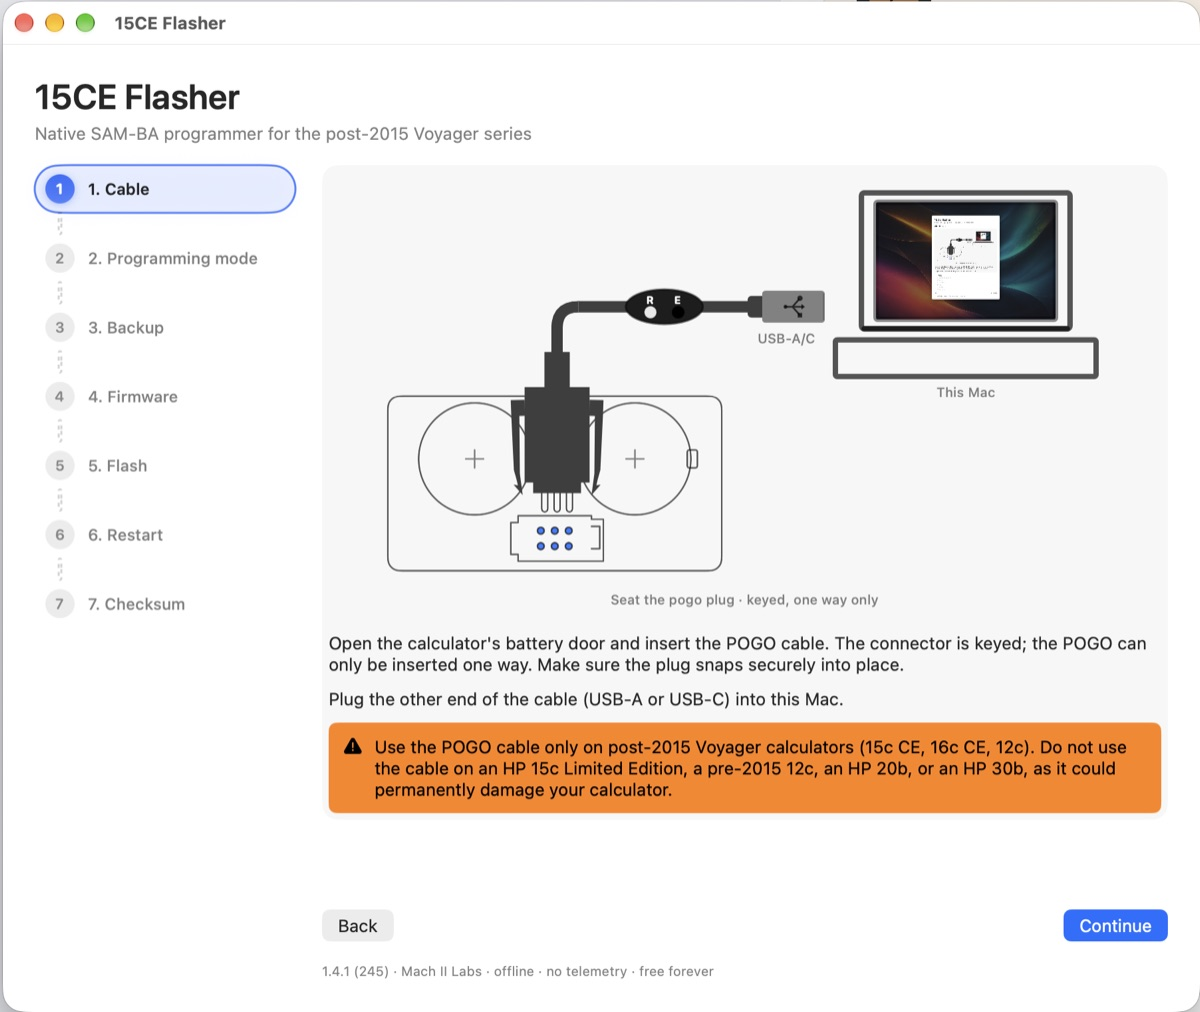
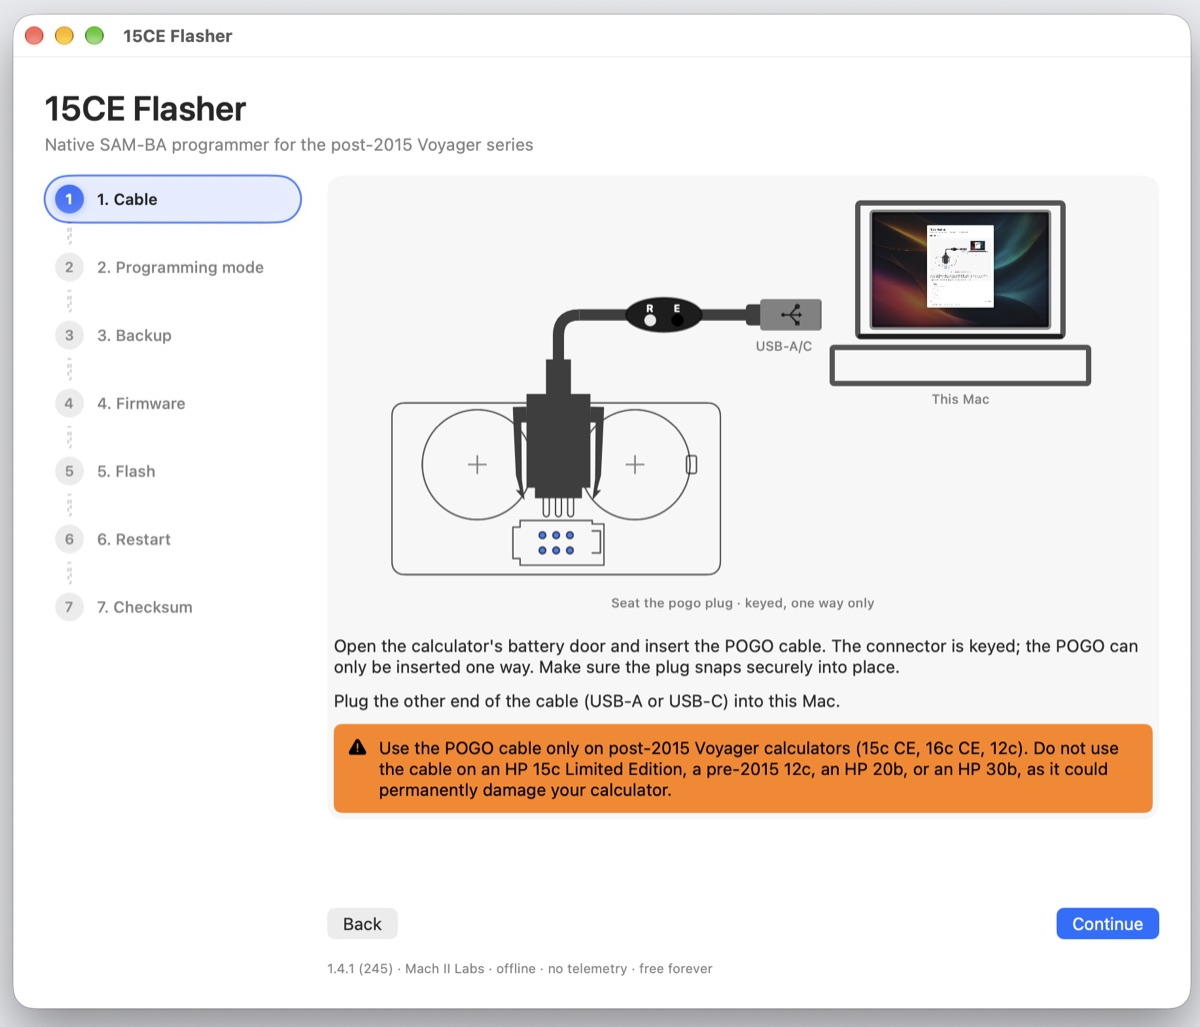
Issue 2026-01: a cleaner 15CE Flasher screenshot.

diff --git a/src/lib/newsletter/issues/2026-01.ts b/src/lib/newsletter/issues/2026-01.ts
@@ -65,7 +65,7 @@ const issue: NewsletterIssue = {
       image: {
         path: "2026-01/flasher-wizard.jpg",
         width: 1200,
-        height: 1012,
+        height: 1027,
         alt: "15CE Flasher 1.4.1’s first step: a diagram of the pogo cable seated in the calculator and plugged into a Mac",
       },
       intro:
